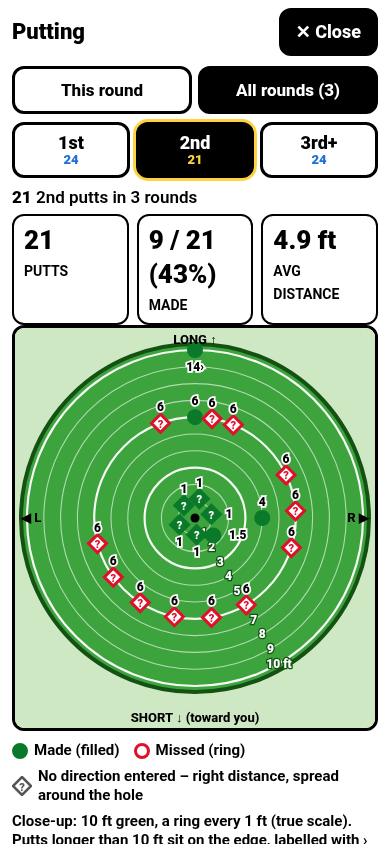
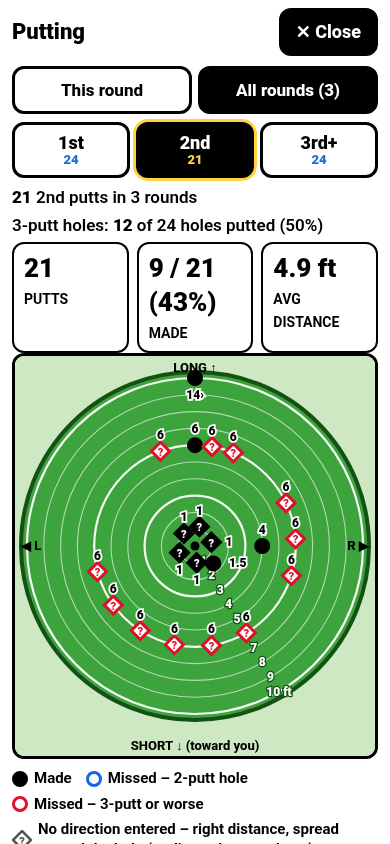
v19: putt markers – made = black, missed on 2-putt hole = blue ring, missed on 3-putt+ hole = red ring; 3-putt hole count

Changed region(s): [[0.0308, 0.2464, 0.9846, 1.0], [0.9538, 0.2464, 0.9846, 0.3081]]

diff --git a/app.js b/app.js
@@ -623,10 +623,11 @@
     (view.mapScope === 'all' ? rounds : [round()]).forEach(function (r) { n++; SG.summarize(r, 'pga').puttList.forEach(function (p) { all.push(p); }); });
     var counts = { '1': 0, '2': 0, '3': 0 }; all.forEach(function (p) { counts[SG.puttGroup(p.n)]++; });
     var g = view.puttN || '1'; if (!counts[g]) g = ['1', '2', '3'].filter(function (x) { return counts[x]; })[0] || '1';
-    return { list: all.filter(function (p) { return SG.puttGroup(p.n) === g; }), group: g, counts: counts, rounds: n };
+    return { list: all.filter(function (p) { return SG.puttGroup(p.n) === g; }), group: g, counts: counts, rounds: n, tp: SG.threePutts(all) };
   }
   // Non-linear radius: 0-10 ft takes 60% of the radius (1 ft rings readable); 10 ft..max ring the rest.
   var PG2 = { cx: 180, cy: 190, R: 168 };
+  var PCOL = { made: '#000', miss2: '#1565e0', miss3: '#e0102a' };
   function puttSVG(list, group) {
     var sc = SG.puttScale(group, list), maxFt = sc.maxFt, close = sc.mode === 'close', R = function (ft) { return SG.puttRadius(ft, sc, PG2.R); };
     var o = '<svg id="puttmap" data-scale="' + sc.mode + '" data-maxft="' + maxFt + '" viewBox="0 0 360 400" role="img" aria-label="Putts by starting distance">' +
@@ -647,8 +648,8 @@
     o += '<circle cx="' + PG2.cx + '" cy="' + PG2.cy + '" r="4.5" fill="#000"/>';
     var dots = '', boxes = ringBoxes.concat([[130, 3, 230, 21], [80, 380, 280, 398], [0, PG2.cy - 10, 30, PG2.cy + 6], [330, PG2.cy - 10, 360, PG2.cy + 6]]), lbls = '';
     SG.puttPlace(list, sc, PG2.cx, PG2.cy, PG2.R, 15).forEach(function (d) {
-      var p = d.p, q = [d.x, d.y], x = f1(d.x), y = f1(d.y), col = p.made ? '#0a7a2a' : '#e0102a';
-      var at = ' class="pdot2" data-made="' + (p.made ? 1 : 0) + '" data-ft="' + p.ft + '" data-hole="' + p.hole + '" data-dir="' + (p.dir || '') + '" data-beyond="' + (d.beyond ? 1 : 0) + '"';
+      var p = d.p, q = [d.x, d.y], x = f1(d.x), y = f1(d.y), kd = SG.puttKind(p), col = PCOL[kd];
+      var at = ' class="pdot2" data-made="' + (p.made ? 1 : 0) + '" data-ft="' + p.ft + '" data-hole="' + p.hole + '" data-dir="' + (p.dir || '') + '" data-beyond="' + (d.beyond ? 1 : 0) + '" data-pk="' + kd + '"';
       if (d.nodir) dots += '<g' + at + ' data-kind="nodir"><path d="M' + x + ' ' + (y - 9) + ' l9 9 -9 9 -9 -9z" fill="' + (p.made ? col : '#fff') + '" stroke="' + col + '" stroke-width="3"/><text x="' + x + '" y="' + (+y + 4.5) + '" text-anchor="middle" font-size="11" font-weight="900" fill="' + (p.made ? '#fff' : col) + '">?</text></g>';
       else dots += '<circle' + at + ' data-kind="dir" cx="' + x + '" cy="' + y + '" r="6.5" fill="' + (p.made ? col : '#fff') + '" stroke="' + col + '" stroke-width="3"/>';
       boxes.push([q[0] - 8, q[1] - 9, q[0] + 8, q[1] + 9]);
@@ -671,10 +672,11 @@
     var bandRows = P.bands.map(function (b) { return '<tr data-band="' + b.id + '"><td>' + b.id + ' ft</td><td class="num">' + b.n + '</td><td class="num">' + (b.n ? b.made + '/' + b.n : '–') + '</td><td class="num">' + pct(b.pct) + '</td></tr>'; }).join('');
     return '<div class="pnrow" id="puttbtns" role="group" aria-label="Which putt">' + btns + '</div>' +
       '<p class="mapsum" id="mapsum"><b>' + P.n + '</b> ' + NM[D.group] + (P.n === 1 ? '' : 's') + (all ? ' in ' + D.rounds + ' round' + (D.rounds === 1 ? '' : 's') : ' this round') + '</p>' +
+      '<p class="mapsum" id="threeputts">3-putt holes: <b>' + D.tp.three + '</b> of ' + D.tp.holes + ' hole' + (D.tp.holes === 1 ? '' : 's') + ' putted' + (D.tp.holes ? ' (' + Math.round(100 * D.tp.three / D.tp.holes) + '%)' : '') + '</p>' +
       '<div class="stat-grid" id="puttstats">' + stat('Putts', P.n) + stat('Made', P.n ? P.made + ' / ' + P.n + ' (' + pct(P.pct) + ')' : '–') + stat('Avg distance', P.avgFt == null ? '–' : (Math.round(P.avgFt * 10) / 10) + ' ft') + '</div>' +
       puttSVG(D.list, D.group) +
-      '<div class="legend"><span><i class="dot" style="background:#0a7a2a;border-color:#0a7a2a"></i>Made (filled)</span><span><i class="dot" style="background:#fff;border:3px solid #e0102a"></i>Missed (ring)</span>' +
-      '<span><svg width="20" height="20" viewBox="0 0 20 20" style="flex:none"><path d="M10 1 l9 9 -9 9 -9 -9z" fill="#fff" stroke="#555" stroke-width="2.5"/><text x="10" y="14.5" text-anchor="middle" font-size="11" font-weight="900" fill="#555">?</text></svg>No direction entered – right distance, spread around the hole</span>' +
+      '<div class="legend" id="puttlegend"><span><i class="dot" style="background:#000;border-color:#000"></i>Made</span><span><i class="dot" style="background:#fff;border:3px solid #1565e0"></i>Missed – 2-putt hole</span><span><i class="dot" style="background:#fff;border:3px solid #e0102a"></i>Missed – 3-putt or worse</span>' +
+      '<span><svg width="20" height="20" viewBox="0 0 20 20" style="flex:none"><path d="M10 1 l9 9 -9 9 -9 -9z" fill="#fff" stroke="#555" stroke-width="2.5"/><text x="10" y="14.5" text-anchor="middle" font-size="11" font-weight="900" fill="#555">?</text></svg>No direction entered – right distance, spread around the hole (outline colour as above)</span>' +
       (D.group === '1' ? '<span>Rings every 1 ft out to 10 ft, then every 5 ft. The inner 10 ft is drawn bigger so short putts are easy to read; the label is the distance in ft.</span>' : '<span>Close-up: 10 ft green, a ring every 1 ft (true scale). Putts longer than 10 ft sit on the edge, labelled with › and their real distance.</span>') + '<span>Dots that would land on the same spot are nudged slightly apart.</span></div>' +
       '<h3>Make % by distance</h3><table class="dirtab" id="puttbands"><tr><th>Distance</th><th class="num">Putts</th><th class="num">Made</th><th class="num">Make %</th></tr>' + bandRows + '</table>' +
       '<p class="help muted">Every putt = every stroke hit from the green. 1st / 2nd / 3rd+ = its number on that hole (3rd+ includes 4th and later). Direction = where the ball was vs the hole before the putt: for 1st putts the Dir of the approach (as on the GIR map), for later putts the Dir on that putt\'s row. ' +

diff --git a/tests/focused.js b/tests/focused.js
@@ -1,11 +1,12 @@
 const { chromium } = require('playwright-core'); const assert = require('assert'); const { spawn } = require('child_process');
+const errors = [];
 const BASE = process.env.BASE_URL || 'http://127.0.0.1:8765/', SHOTS = process.env.SHOTS || '/tmp/shots-v15f';
 (async () => {
   const srv = process.env.NO_SERVER ? null : spawn('python3', ['-m', 'http.server', '8765', '--bind', '127.0.0.1'], { cwd: '/workspace/golf-app', stdio: 'ignore' });
   await new Promise(r => setTimeout(r, 1500));
   const browser = await chromium.launch({ executablePath: '/usr/bin/google-chrome', args: ['--no-sandbox'], timeout: 600000 });
   const page = await (await browser.newContext({ viewport: { width: 390, height: 844 }, deviceScaleFactor: 1, isMobile: true, hasTouch: true })).newPage();
-  page.setDefaultTimeout(120000); const errors = []; page.on('pageerror', e => errors.push(String(e))); page.on('dialog', d => d.accept());
+  page.setDefaultTimeout(+process.env.TMO || 120000); errors.length = 0; page.on('pageerror', e => errors.push(String(e))); page.on('dialog', d => d.accept());
   await page.goto(BASE + '?x=' + Date.now());
   await page.evaluate(() => {
     const R = (dist, loc) => ({ dist, loc, dir: '', pen: false });
@@ -84,6 +85,10 @@ const BASE = process.env.BASE_URL || 'http://127.0.0.1:8765/', SHOTS = process.e
   const noOverlap = async (tag) => { const c = await page.$$eval('#puttmap .pdot2', ds => ds.map(d => { const b = d.getBBox(); return [b.x + b.width / 2, b.y + b.height / 2]; }));
     for (let i = 0; i < c.length; i++) for (let j = 0; j < i; j++) assert.ok(Math.hypot(c[i][0] - c[j][0], c[i][1] - c[j][1]) >= 14, tag + ' dots overlap ' + c[i] + ' / ' + c[j]); return c.length; };
   await noOverlap('1st');
+  const mk = () => page.$$eval('#puttmap .pdot2', ds => ds.map(d => { const e = d.tagName === 'g' ? d.querySelector('path') : d; return [+d.getAttribute('data-ft'), d.getAttribute('data-pk'), e.getAttribute('fill'), e.getAttribute('stroke')]; }));
+  assert.deepStrictEqual(await mk(), [[25, 'miss2', '#fff', '#1565e0'], [8, 'made', '#000', '#000'], [40, 'miss2', '#fff', '#1565e0'], [3, 'made', '#000', '#000'], [12, 'miss2', '#fff', '#1565e0'], [30, 'miss2', '#fff', '#1565e0']]);
+  assert.strictEqual(await page.textContent('#threeputts'), '3-putt holes: 0 of 6 holes putted (0%)');
+  assert.deepStrictEqual(await page.$$eval('#puttlegend span', ss => ss.slice(0, 3).map(x => x.textContent)), ['Made', 'Missed – 2-putt hole', 'Missed – 3-putt or worse']);
   assert.strictEqual(await page.getAttribute('#puttmap', 'data-scale'), 'wide');
   await page.click('#puttbtns [data-v="2"]'); assert.match(await page.getAttribute('#puttbtns [data-v="2"]', 'class'), /sel/);
   const d2 = await page.$$eval('#puttmap .pdot2', ds => ds.map(d => [+d.getAttribute('data-ft'), d.getAttribute('data-made'), d.getAttribute('data-dir')]));
@@ -105,10 +110,17 @@ const BASE = process.env.BASE_URL || 'http://127.0.0.1:8765/', SHOTS = process.e
   const pbAll = await page.$$eval('#puttbtns .pnbtn', bs => bs.map(b => [+b.getAttribute('data-n'), b.disabled]));
   assert.deepStrictEqual(pbAll, [[allExp[1], false], [allExp[2], false], [allExp[3], !allExp[3]]]);
   assert.strictEqual(await page.locator('#puttmap .pdot2').count(), allExp[1]); assert.match(await page.textContent('#mapsum'), new RegExp('^' + allExp[1] + ' 1st putts in 3 rounds'));
-  await page.click('#puttbtns [data-v="3"]'); assert.strictEqual(await page.locator('#puttmap .pdot2').count(), allExp[3]); assert.strictEqual(await page.getAttribute('#puttmap', 'data-scale'), 'close'); await noOverlap('All 3rd+'); assert.strictEqual(n2, allExp[2]);
+  const tpAll = await page.evaluate(() => { let h = 0, t = 0; window.__golf.rounds().forEach(r => { const x = SG.threePutts(SG.summarize(r).puttList); h += x.holes; t += x.three; }); return [h, t]; });
+  assert.match(await page.textContent('#threeputts'), new RegExp('^3-putt holes: ' + tpAll[1] + ' of ' + tpAll[0] + ' holes putted')); assert.ok(tpAll[1] > 0);
+  await page.click('#puttbtns [data-v="3"]'); assert.strictEqual(await page.locator('#puttmap .pdot2').count(), allExp[3]);
+  const k3 = await mk(); assert.ok(k3.some(k => k[1] === 'miss3') && k3.every(k => k[1] !== 'miss2') && k3.every(k => (k[1] === 'made') === (k[2] === '#000') && (k[1] !== 'miss3' || k[3] === '#e0102a')), JSON.stringify(k3));
+  await page.screenshot({ path: SHOTS + '/37d-putting-3rd-all.png' }); assert.strictEqual(await page.getAttribute('#puttmap', 'data-scale'), 'close'); await noOverlap('All 3rd+'); assert.strictEqual(n2, allExp[2]);
   await page.click('[data-act="mapclose"]'); await page.waitForSelector('#puttmap', { state: 'detached' });
   console.log('✓ All rounds: 1st/2nd/3rd+ = ' + [allExp[1], allExp[2], allExp[3]].join('/') + '; Close');
 
+  const kinds = await page.$$eval('[data-act="map"]', bs => bs.map(b => b.getAttribute('data-v')));
+  for (const k of kinds) { await page.click(`[data-act="map"][data-v="${k}"]`); await page.waitForSelector('#mapview'); await page.click('[data-act="mapclose"]'); await page.waitForSelector('#mapview', { state: 'detached' }); }
+  assert.ok(kinds.length >= 5); console.log('✓ every map opens/closes without errors: ' + kinds.join(', '));
   assert.deepStrictEqual(errors, []); console.log('FOCUSED OK');
   await browser.close(); if (srv) srv.kill();
-})().catch(e => { console.error('FAIL', e.message); process.exit(1); });
+})().catch(e => { console.error('FAIL', e.stack, JSON.stringify(errors)); process.exit(1); });

diff --git a/sg.js b/sg.js
@@ -436,6 +436,7 @@
         if (r.start.lie !== 'green') return; pn++;
         S.puttList.push({ hole: hi + 1, n: pn, ft: r.start.dist, made: r.end.lie === 'holed', dir: k > 0 ? a.shots[k - 1].dir : '' });
       });
+      for (var q = S.puttList.length - pn; q < S.puttList.length; q++) S.puttList[q].holePutts = pn; // putts the hole ended with
       S.holesDone++; S.strokes += a.strokes; S.par += Number(h.par);
       S.girHoles++; if (a.gir) S.gir++;
       if (a.fairway !== null) { S.fwTotal++; if (a.fairway) S.fwHit++; }
@@ -619,6 +620,10 @@
     return out;
   }
   function puttGroup(n) { return n >= 3 ? '3' : String(n); } // 3 = "3rd+" (3rd, 4th, ...)
+  // Marker class: made, missed on a 2-putt hole, or missed on a hole with 3+ putts.
+  function puttKind(p) { return p.made ? 'made' : (p.holePutts || 0) >= 3 ? 'miss3' : 'miss2'; }
+  // 3-putt holes among the holes in a putt list (each hole counted once, via its 1st putt).
+  function threePutts(list) { var H = list.filter(function (p) { return p.n === 1; }); return { holes: H.length, three: H.filter(function (p) { return p.holePutts >= 3; }).length }; }
   function puttStats(list) {
     var made = list.filter(function (p) { return p.made; }).length;
     return { n: list.length, made: made, pct: list.length ? 100 * made / list.length : null,
@@ -666,7 +671,7 @@
     return incoming.filter(function (r) { return byId[r.id] && JSON.stringify(byId[r.id]) !== JSON.stringify(r); });
   }
 
-  var api = { puttScale: puttScale, puttRadius: puttRadius, puttPlace: puttPlace, PUTT_BANDS: PUTT_BANDS, puttGroup: puttGroup, puttStats: puttStats, makeBackup: makeBackup, parseBackup: parseBackup, mergeRounds: mergeRounds, conflictsOf: conflictsOf, PROX_LIES: PROX_LIES, lieGroup: lieGroup, proxByLie: proxByLie, proxWarnings: proxWarnings, PROX_BUCKETS: PROX_BUCKETS, inBucket: inBucket, roundYd: roundYd, proxStats: proxStats, reachedGreen: reachedGreen, PIN_GRID: PIN_GRID, PIN_NAME: PIN_NAME, normPin: normPin, DIR8: DIR8, DIR_NAME: DIR_NAME, DIR_ANGLE: DIR_ANGLE, normDir: normDir, expected: expected, expectedPGA: expectedPGA, BASELINES: BASELINES, baseline: function (id) { return BL[id] || BL.pga; },
+  var api = { puttKind: puttKind, threePutts: threePutts, puttScale: puttScale, puttRadius: puttRadius, puttPlace: puttPlace, PUTT_BANDS: PUTT_BANDS, puttGroup: puttGroup, puttStats: puttStats, makeBackup: makeBackup, parseBackup: parseBackup, mergeRounds: mergeRounds, conflictsOf: conflictsOf, PROX_LIES: PROX_LIES, lieGroup: lieGroup, proxByLie: proxByLie, proxWarnings: proxWarnings, PROX_BUCKETS: PROX_BUCKETS, inBucket: inBucket, roundYd: roundYd, proxStats: proxStats, reachedGreen: reachedGreen, PIN_GRID: PIN_GRID, PIN_NAME: PIN_NAME, normPin: normPin, DIR8: DIR8, DIR_NAME: DIR_NAME, DIR_ANGLE: DIR_ANGLE, normDir: normDir, expected: expected, expectedPGA: expectedPGA, BASELINES: BASELINES, baseline: function (id) { return BL[id] || BL.pga; },
     CALIB_ROUND: CALIB_ROUND, catLoss: catLoss, analyzeHole: analyzeHole, summarize: summarize,
     rowsToShots: rowsToShots, shotsToRows: shotsToRows, migrateV2Rows: migrateV2Rows, v1ToRows: v1ToRows, holeYards: holeYards,
     rowUnit: rowUnit, lieOf: lieOf, distOf: distOf, rowStrokes: rowStrokes, isPenalty: isPenalty,

diff --git a/tests/sg.test.js b/tests/sg.test.js
@@ -638,3 +638,18 @@ test('putting scale: 1st putts wide (10 ft = 60%), 2nd/3rd+ close-up linear 10 f
   assert.deepStrictEqual(P.map(p => p.beyond), [false, false, false, false, false, false, true, true]);
   P.slice(0, 4).forEach(p => assert.ok(Math.abs(Math.hypot(p.x - 180, p.y - 190) - 33.6) < 6, 'jitter stays close to 2 ft'));
 });
+
+test('putt markers: made / missed on a 2-putt hole / missed on a 3-putt+ hole; 3-putt hole count', () => {
+  const S = SG.summarize({ holes: [
+    { par: 4, finished: true, rows: [R(400, 'tee'), R(150, 'fairway'), R(25, 'green'), R(4, 'holed')] },                 // 2-putt
+    { par: 3, finished: true, rows: [R(170, 'tee'), R(8, 'holed')] },                                                     // 1-putt
+    { par: 4, finished: true, rows: [R(400, 'tee'), R(150, 'fairway'), R(40, 'green'), R(6, 'green'), R(2, 'holed')] }, // 3-putt
+    { par: 5, finished: true, rows: [R(520, 'tee'), R(250, 'fairway'), R(90, 'fairway'), R(30, 'green'), R(8, 'green'), R(4, 'green'), R(2, 'holed')] }, // 4-putt
+    { par: 4, finished: true, rows: [R(400, 'tee'), R(120, 'fairway'), R(15, 'holedx')] }                                  // chip-in, no putts
+  ] });
+  assert.deepStrictEqual(S.puttList.map(p => [p.hole, p.holePutts, SG.puttKind(p)]), [
+    [1, 2, 'miss2'], [1, 2, 'made'], [2, 1, 'made'], [3, 3, 'miss3'], [3, 3, 'miss3'], [3, 3, 'made'],
+    [4, 4, 'miss3'], [4, 4, 'miss3'], [4, 4, 'miss3'], [4, 4, 'made']]);
+  assert.deepStrictEqual(SG.threePutts(S.puttList), { holes: 4, three: 2 });
+  assert.deepStrictEqual(SG.threePutts([]), { holes: 0, three: 0 });
+});

diff --git a/sw.js b/sw.js
@@ -1,5 +1,5 @@
 // Offline support: cache the whole app on install, serve cache-first.
-const CACHE = 'golf-sg-v18';
+const CACHE = 'golf-sg-v19';
 const ASSETS = ['./', './index.html', './styles.css', './sg.js', './app.js',
   './manifest.webmanifest', './icons/apple-touch-icon.png', './icons/icon-192.png',
   './icons/icon-512.png', './icons/icon-512-maskable.png'];
